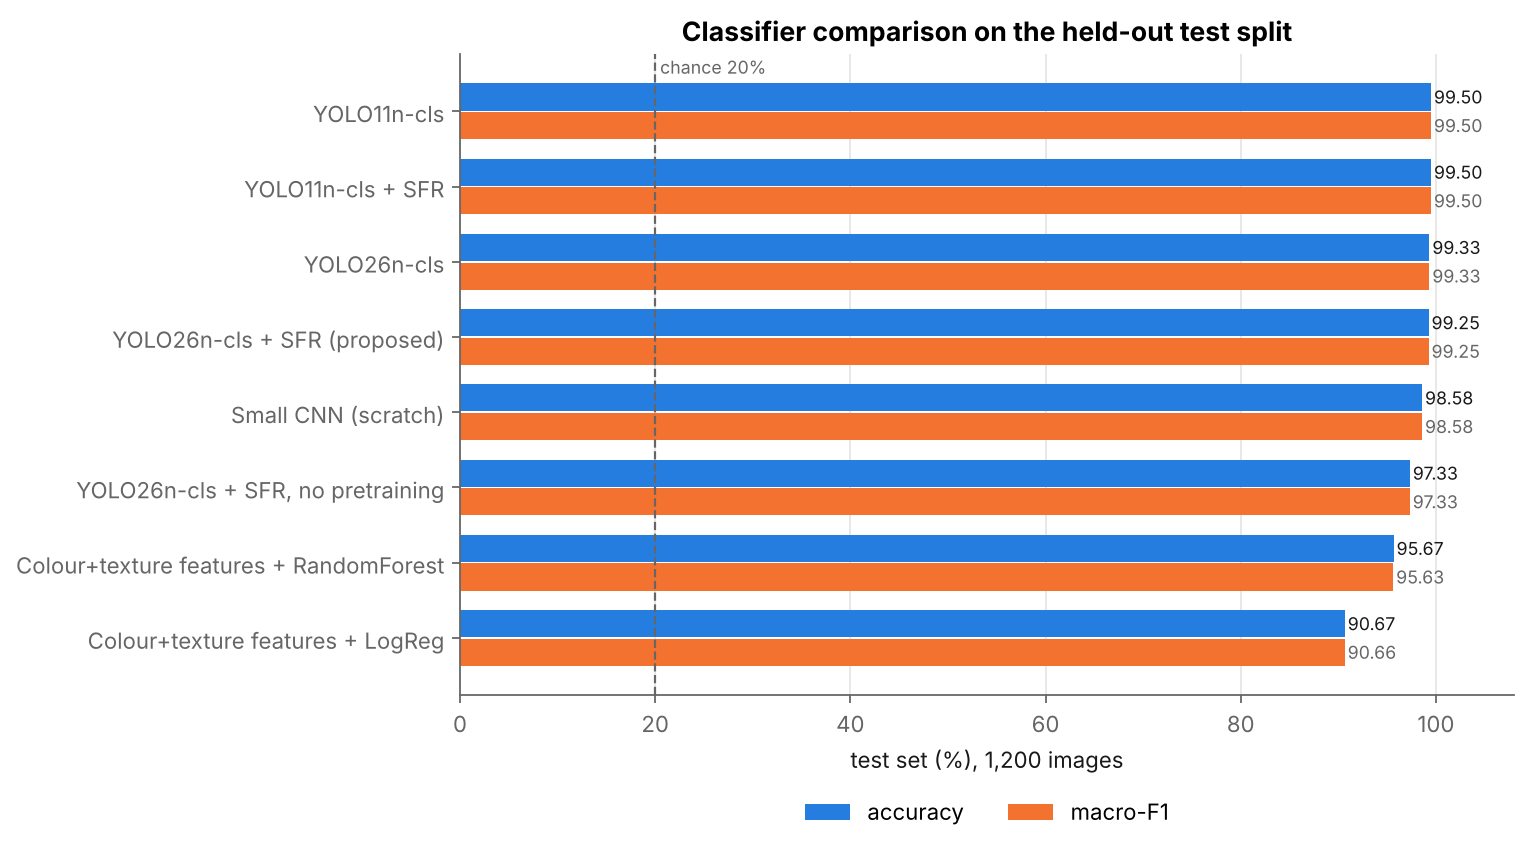
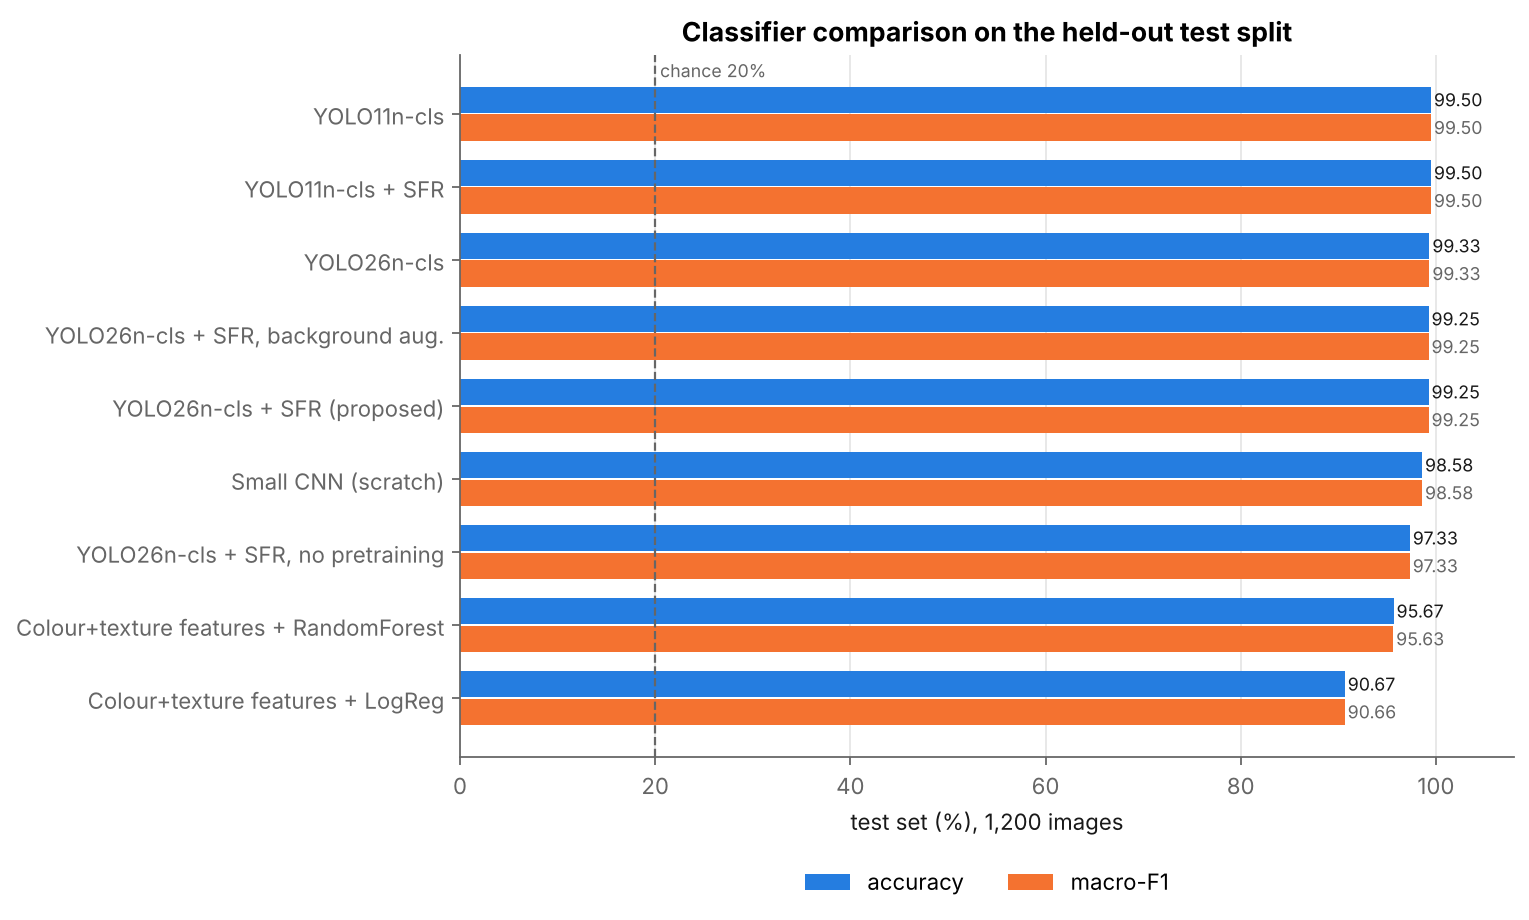
Fill REPORT classification/seed/robustness sections, deploy background-augmented model, new figures
Claude-Session: https://claude.ai/code/session_019varV3dKw765viBJTUY24M

diff --git a/docs/build_guide_pdf.py b/docs/build_guide_pdf.py
@@ -516,8 +516,22 @@ FIGURE("cls_per_class.png", "Per-class precision, recall and F1 of the proposed 
 FIGURE("cls_roc.png", "One-vs-rest ROC curves (log-scaled false-positive axis, so the differences are visible).",
        10)
 FIGURE("gradcam.png", "Grad-CAM and SFR attention maps on random test images.")
-FIGURE("cls_background_robustness.png", "Every classifier on the normal test images and on the same images with "
-       "the background removed.")
+P("<b>Leaf or background? The robustness test.</b>")
+SIMPLE("We cut each test leaf out and pasted it onto new backgrounds: black, a random flat colour and a random "
+       "blotchy texture. The leaf is identical; only the backdrop changes. A model that really looks at the leaf "
+       "should not care. Think of recognising a friend's face on a beach and then in a classroom.")
+ROB = load("classification/background_robustness")
+if ROB:
+    TABLE([["Model", "Original", "Black", "Flat colour", "Texture"]] +
+          [[CLS_NAMES[k], *[pct(ROB[k][v]["accuracy"], 1) for v in ["original", "black", "flat", "texture"]]]
+           for k in CLS_NAMES if k in ROB], [6.6, 2.3, 2.3, 2.6, 2.4], bold_rows=(7,))
+FIGURE("background_variants.png", "The four background variants. Leaf pixels are never changed (small holes come "
+       "from PlantVillage's own segmentation masks).", 12)
+FIGURE("cls_background_robustness.png", "Accuracy of every classifier for each background variant.")
+TECH("The flat and texture backgrounds are random and were seen by no model in training, not even the "
+     "background-augmented one (which saw only black backgrounds). The background-augmented model is the most "
+     "robust on every variant, so it was made the default model of the app "
+     "(<font face='DVM'>results/models/yolo26_cls_sfr_bgaug.pt</font>).")
 P("<b>Is SFR worth it? Three seeds each.</b>")
 SIMPLE("One run can be lucky. We trained the with- and without-SFR models three times each, with different random "
        "seeds, and compare the averages and the spread.")
@@ -629,8 +643,8 @@ TECH(["Pump control with hysteresis: ON when moisture &lt; 35% (40% if T &gt; 32
       "Disease-risk flag: 'high' when RH &gt; 85% and 15 °C ≤ T ≤ 28 °C (leaf-wetness conditions favourable to "
       "late blight and mildew), 'medium' when RH &gt; 70%.",
       "Example response of POST /predict:"])
-CODE('{"disease": "Late Blight", "class": "Late_Blight", "confidence": 0.969,\n'
-     ' "top3": [{"class": "Late_Blight", "prob": 0.969}, ...],\n'
+CODE('{"disease": "Late Blight", "class": "Late_Blight", "confidence": 0.949,\n'
+     ' "top3": [{"class": "Late_Blight", "prob": 0.949}, ...],\n'
      ' "fertilizer": "Avoid excess nitrogen; apply potassium and phosphorus ...",\n'
      ' "pesticide": "Systemic plus contact fungicides such as metalaxyl-M + mancozeb ...",\n'
      ' "precautions": "Destroy infected plants and volunteer potatoes ...",\n'

diff --git a/src/predict.py b/src/predict.py
@@ -21,7 +21,7 @@ from src.config import CLASSES, IMG_SIZE, MODELS, ROOT  # noqa: E402
 from src.data import to_tensor  # noqa: E402
 from src.health import health_indices, leaf_mask  # noqa: E402
 
-DEFAULT_CLASSIFIER = MODELS / "yolo26_cls_sfr.pt"
+DEFAULT_CLASSIFIER = MODELS / "yolo26_cls_sfr_bgaug.pt"  # proposed model + background augmentation (most robust, REPORT §8.4)
 ADVISORY_PATH = ROOT / "app" / "advisory.json"
 
 

diff --git a/README.md b/README.md
@@ -31,24 +31,40 @@ Held-out **test split of 1,200 real PlantVillage images** (240 per class, never 
 | YOLO11n-cls | 99.50% | 0.9950 | 1.0000 | 85.8% |
 | YOLO26n-cls + SFR, no ImageNet pretraining | 97.33% | 0.9733 | 0.9980 | 52.6% |
 | Small CNN from scratch | 98.58% | 0.9858 | 0.9996 | 62.5% |
+| **YOLO26n-cls + SFR + background augmentation (deployed)** | **99.25%** | 0.9925 | 0.9998 | **98.7%** |
 | Colour + texture features + random forest | 95.67% | 0.9563 | 0.9966 | - |
 | Colour + texture features + logistic regression | 90.67% | 0.9066 | 0.9881 | - |
 | Majority class | 20.00% | 0.0667 | - | - |
 
 <!-- DETECTION_TABLE -->
 
+**SFR ablation over three seeds:** YOLO26n-cls + SFR **99.36 ± 0.13%**, YOLO26n-cls **99.31 ± 0.21%**. The
+difference is under one test image, so SFR gives **no measurable gain** on PlantVillage.
+
+**Background robustness:** the same 1,200 test leaves, with only the background replaced.
+
+| Model | Original | Black | Random flat colour (unseen) | Random texture (unseen) |
+|---|---|---|---|---|
+| YOLO26n-cls + SFR | 99.25% | 59.08% | 83.33% | 77.92% |
+| YOLO26n-cls | 99.33% | 82.67% | 83.42% | 74.83% |
+| YOLO11n-cls | 99.50% | 85.83% | 87.33% | 72.17% |
+| Small CNN from scratch | 98.58% | 62.50% | 53.83% | 38.58% |
+| **YOLO26n-cls + SFR + background aug.** | **99.25%** | **98.67%** | **92.17%** | **81.67%** |
+
 **Honest reading of these numbers**
-* Every deep model is above 97% and the classical random forest reaches 95.7%. PlantVillage (single leaves, lab
-  background) is an easy benchmark, and the attention module (SFR) gives **no measurable gain** on it.
-  The with/without-SFR differences are 0-1 test images. See the multi-seed check in [REPORT.md](REPORT.md).
-* With the leaf's **background removed**, accuracy drops to 53-86%: the models partly rely on the lab
-  background, lighting and crop identity. Training with background augmentation narrows this gap (REPORT.md §8.4).
-  **Validate on real field photos before trusting it on a farm.**
+* Every deep model is above 97%, and a classical random forest reaches 95.7%. PlantVillage, with single leaves on
+  a lab background, is an easy benchmark.
+* With the background changed, accuracy falls to 39-88%. The models partly rely on the lab background, lighting
+  and crop identity.
+* Training on background-removed images 50% of the time fixes much of this at no cost on normal images.
+  That model is the app's default (`results/models/yolo26_cls_sfr_bgaug.pt`).
+* **Validate on real field photos before trusting it on a farm.**
 
 | | |
 |---|---|
 | ![Confusion matrices](docs/figures/cls_confusion_matrix.png) | ![Grad-CAM](docs/figures/gradcam.png) |
-| ![Model comparison](docs/figures/cls_model_comparison.png) | ![Health indices](docs/figures/health_lesion_maps.png) |
+| ![Model comparison](docs/figures/cls_model_comparison.png) | ![Background robustness](docs/figures/cls_background_robustness.png) |
+| ![SFR seeds](docs/figures/cls_sfr_seeds.png) | ![Health indices](docs/figures/health_lesion_maps.png) |
 
 ## Results reported in the original project
 
@@ -120,8 +136,9 @@ Raw data is not committed. `scripts/download_plantvillage.py` fetches exactly th
 ![Model](docs/figures/model_architecture.png)
 
 **CPU budget (documented):** no GPU was available. Classifiers use 128-px inputs (~25 s/epoch on 4 cores).
-Detectors are trained on a fixed 35% subset of the training split (~1,960 images) for 15 epochs at 256 px and
-evaluated on the full test split.
+Detectors are trained on a class × crop stratified 35% subset of the training split (1,960 images) for 15
+epochs at 256 px, and evaluated on the full test split. Ultralytics' own `fraction=` keeps the first N files in
+sorted order and silently dropped whole crops in our first attempt (REPORT.md §8.5).
 
 ## Project structure
 
@@ -139,11 +156,12 @@ evaluated on the full test split.
 │   ├── train_classifier.py        # classifier training / evaluation (also --data synthetic sanity check)
 │   ├── train_detector.py          # YOLO26n / YOLO11n / YOLOv5n (± SFR) detector training / evaluation
 │   ├── baseline_features.py       # colour + texture features → LogReg / RF baselines
+│   ├── eval_backgrounds.py        # background-robustness test (black / random colour / texture)
 │   └── predict.py                 # inference: disease + confidence + advisory + health (+ boxes, Grad-CAM)
 ├── app/                           # Flask API, web interface, advisory.json
 ├── mobile_app/                    # Flutter client (source)
 ├── firmware/                      # ESP32-CAM capture, NodeMCU sensors + pump (Arduino source)
-├── tests/test_pipeline.py         # pytest (17 tests)
+├── tests/test_pipeline.py         # pytest (18 tests)
 ├── results/                       # metrics.json per model, summary.md, trained models (results/models/*.pt)
 ├── docs/                          # Project_Guide.pdf, its builder, figures
 ├── screenshots/                   # surviving screenshots of the original project
@@ -165,6 +183,7 @@ Train and evaluate (numbers and figures land in `results/` and `docs/figures/`):
 python -m src.train_classifier --model yolo26_cls_sfr --epochs 15        # proposed classifier, ~7-10 min on CPU
 python -m src.train_detector --arch yolo26n --sfr --epochs 15 --fraction 0.35
 python -m src.baseline_features
+python -m src.eval_backgrounds                                           # background-robustness test
 bash scripts/run_classification.sh && bash scripts/run_detection.sh      # every experiment in REPORT.md
 python scripts/make_figures.py
 ```
@@ -190,8 +209,8 @@ pytest -q
 
 ```json
 {
-  "disease": "Late Blight", "class": "Late_Blight", "confidence": 0.969,
-  "top3": [{"class": "Late_Blight", "prob": 0.969}, {"class": "Healthy", "prob": 0.009}, {"class": "Bacterial_spot", "prob": 0.009}],
+  "disease": "Late Blight", "class": "Late_Blight", "confidence": 0.949,
+  "top3": [{"class": "Late_Blight", "prob": 0.949}, {"class": "Bacterial_spot", "prob": 0.014}, {"class": "Powder_Mildew", "prob": 0.014}],
   "fertilizer": "Avoid excess nitrogen; apply potassium and phosphorus (e.g. NPK 10-26-26) ...",
   "pesticide": "Systemic plus contact fungicides such as metalaxyl-M + mancozeb ...",
   "precautions": "Destroy infected plants and volunteer potatoes; use resistant varieties ...",

diff --git a/REPORT.md b/REPORT.md
@@ -29,7 +29,8 @@ images.
   within ±0.3 points of each other.
 * A background-removal test exposes a shortcut. Accuracy falls to 53-86% when the lab background is blacked out,
   so the models partly rely on the background and lighting rather than the lesions. Training with
-  background-swap augmentation reduces this gap (§8.4).
+  background-removal augmentation keeps 99.25% on normal images and raises accuracy on unseen random
+  backgrounds to 82-92% (§8.4). The deployed app uses this model.
 
 We report these limits explicitly. The system should be validated on field photographs before it is used on a farm.
 
@@ -267,7 +268,18 @@ All results are on the **held-out test split: 1,200 real images, 240 per class**
 
 ### 7.1 Classification
 
-<!-- CLS_TABLE -->
+| Model | Params | Accuracy | Macro-F1 | Macro AUC | Train time |
+|---|---|---|---|---|---|
+| **YOLO26n-cls + SFR (proposed)** | 1.56 M | 99.25% | 0.9925 | 0.9996 | 10.0 min |
+| YOLO26n-cls (no SFR) | 1.54 M | 99.33% | 0.9933 | 1.0000 | 7.7 min |
+| YOLO11n-cls + SFR | 1.56 M | 99.50% | 0.9950 | 1.0000 | 6.3 min |
+| YOLO11n-cls | 1.54 M | 99.50% | 0.9950 | 1.0000 | 5.7 min |
+| YOLO26n-cls + SFR, no ImageNet pretraining | 1.56 M | 97.33% | 0.9733 | 0.9980 | 5.8 min |
+| Small CNN from scratch | 0.66 M | 98.58% | 0.9858 | 0.9996 | 44.5 min |
+| YOLO26n-cls + SFR + background augmentation | 1.56 M | 99.25% | 0.9925 | 0.9998 | 6.5 min |
+| Colour + texture features + random forest | - | 95.67% | 0.9563 | 0.9966 | 0.2 min |
+| Colour + texture features + logistic regression | - | 90.67% | 0.9066 | 0.9881 | 0.2 min |
+| Majority class (chance) | - | 20.00% | 0.0667 | - | - |
 
 ![Model comparison](docs/figures/cls_model_comparison.png)
 
@@ -306,7 +318,19 @@ matches the background finding below.
 
 ### 7.3 Is the attention module useful? (three-seed ablation)
 
-<!-- SEED_TABLE -->
+| Model | Seeds | Test accuracy (mean ± s.d.) | Individual runs | Background removed (mean ± s.d.) |
+|---|---|---|---|---|
+| YOLO26n-cls + SFR | 42, 1, 2 | 99.36 ± 0.13% | 99.25, 99.50, 99.33 | 66.9 ± 7.0% |
+| YOLO26n-cls | 42, 1, 2 | 99.31 ± 0.21% | 99.33, 99.50, 99.08 | 70.3 ± 12.5% |
+
+With SFR, the mean test accuracy is +0.06 points, which is **0.7 test images** out of 1,200. That is
+smaller than the seed-to-seed spread of either model (s.d. 0.13 and
+0.21 points). The background-removed accuracy varies far more between seeds
+(59-72% with SFR,
+58-83% without). How much a model relies on the background
+is dominated by the random seed (initialisation and data order), not by SFR. **Conclusion: SFR gives
+no measurable gain on PlantVillage.** The seed-42 run of the proposed model happened to be the most
+background-dependent one.
 
 ![SFR seeds](docs/figures/cls_sfr_seeds.png)
 
@@ -352,7 +376,36 @@ matters. Testing that needs a field dataset (§11).
 
 ### 8.4 Background augmentation
 
-<!-- BGAUG_TEXT -->
+We re-trained the proposed model with `--bg-aug 0.5`: each training image is replaced by its background-removed
+version with probability 0.5. We then tested every classifier on the same 1,200 test leaves pasted onto four
+backgrounds. The *flat* and *texture* backgrounds are random and were never seen in training by any model,
+including the augmented one (`src/eval_backgrounds.py`).
+
+| Model | Original | Black background | Random flat colour | Random colour texture |
+|---|---|---|---|---|
+| **YOLO26n-cls + SFR (proposed)** | 99.25% | 59.08% | 83.33% | 77.92% |
+| YOLO26n-cls (no SFR) | 99.33% | 82.67% | 83.42% | 74.83% |
+| YOLO11n-cls + SFR | 99.50% | 84.33% | 84.17% | 73.00% |
+| YOLO11n-cls | 99.50% | 85.83% | 87.33% | 72.17% |
+| YOLO26n-cls + SFR, no ImageNet pretraining | 97.33% | 52.58% | 53.00% | 44.50% |
+| Small CNN from scratch | 98.58% | 62.50% | 53.83% | 38.58% |
+| YOLO26n-cls + SFR + background augmentation | 99.25% | 98.67% | 92.17% | 81.67% |
+
+![Background variants](docs/figures/background_variants.png)
+![Background robustness](docs/figures/cls_background_robustness.png)
+
+* Background augmentation costs **nothing on normal images** (99.25%).
+* It makes the black-background case almost free (98.67%).
+* It is the most robust model on both unseen backgrounds: 92.2% on flat colours and 81.7% on textures, against
+  72-87% and 39-78% for the other models.
+* Models trained from scratch (the small CNN and YOLO26 without pretraining) are by far the most
+  background-dependent. ImageNet features transfer better to new contexts.
+* Even the best model still loses 18 points on busy textured backgrounds. Real field photos, with soil, other
+  leaves and shadows, will be harder still.
+
+Because of this experiment, the background-augmented model (`results/models/yolo26_cls_sfr_bgaug.pt`) is the
+**default model of `src/predict.py` and the web app**. The plain seed-42 model stays the "proposed" row in the
+ablation tables, so the comparison with the no-SFR model remains like-for-like.
 
 ### 8.5 A pitfall: subset sampling for the detectors
 

diff --git a/results/summary.md b/results/summary.md
@@ -15,6 +15,29 @@ All numbers: held-out **test split, 1,200 real PlantVillage images** (240 per cl
 | YOLO11n-cls | ImageNet | 1.54 M | 99.50% | 99.50% | 1.0000 | 85.83% | 5.7 min |
 | YOLO26n-cls + SFR, no pretraining | no | 1.56 M | 97.33% | 97.33% | 0.9980 | 52.58% | 5.8 min |
 | Small CNN (scratch) | no | 0.66 M | 98.58% | 98.58% | 0.9996 | 62.50% | 44.5 min |
+| YOLO26n-cls + SFR, background aug. | ImageNet | 1.56 M | 99.25% | 99.25% | 0.9998 | 98.67% | 6.5 min |
+
+## Background robustness (same 1,200 test leaves, background replaced)
+
+| Model | Original | Black | Random flat colour | Random colour texture |
+|---|---|---|---|---|
+| YOLO26n-cls + SFR (proposed) | 99.25% | 59.08% | 83.33% | 77.92% |
+| YOLO26n-cls | 99.33% | 82.67% | 83.42% | 74.83% |
+| YOLO11n-cls + SFR | 99.50% | 84.33% | 84.17% | 73.00% |
+| YOLO11n-cls | 99.50% | 85.83% | 87.33% | 72.17% |
+| YOLO26n-cls + SFR, no pretraining | 97.33% | 52.58% | 53.00% | 44.50% |
+| Small CNN (scratch) | 98.58% | 62.50% | 53.83% | 38.58% |
+| YOLO26n-cls + SFR, background aug. | 99.25% | 98.67% | 92.17% | 81.67% |
+
+## SFR ablation over three seeds (42, 1, 2)
+
+| Model | Runs | Accuracy (mean ± s.d.) | Macro-F1 | Acc. background removed |
+|---|---|---|---|---|
+| YOLO26n-cls + SFR | 3 | 99.36 ± 0.13% | 99.36 ± 0.13% | 66.94 ± 7.00% |
+| YOLO26n-cls | 3 | 99.31 ± 0.21% | 99.31 ± 0.21% | 70.33 ± 12.55% |
+
+Individual runs: YOLO26n-cls + SFR seed 42: 99.25% / bg-removed 59.08%; YOLO26n-cls + SFR seed 1: 99.50% / bg-removed 69.25%; YOLO26n-cls + SFR seed 2: 99.33% / bg-removed 72.50%; YOLO26n-cls seed 42: 99.33% / bg-removed 82.67%; YOLO26n-cls seed 1: 99.50% / bg-removed 57.58%; YOLO26n-cls seed 2: 99.08% / bg-removed 70.75%
+
 
 Per-class classification report (YOLO26n-cls + SFR):
 ```
